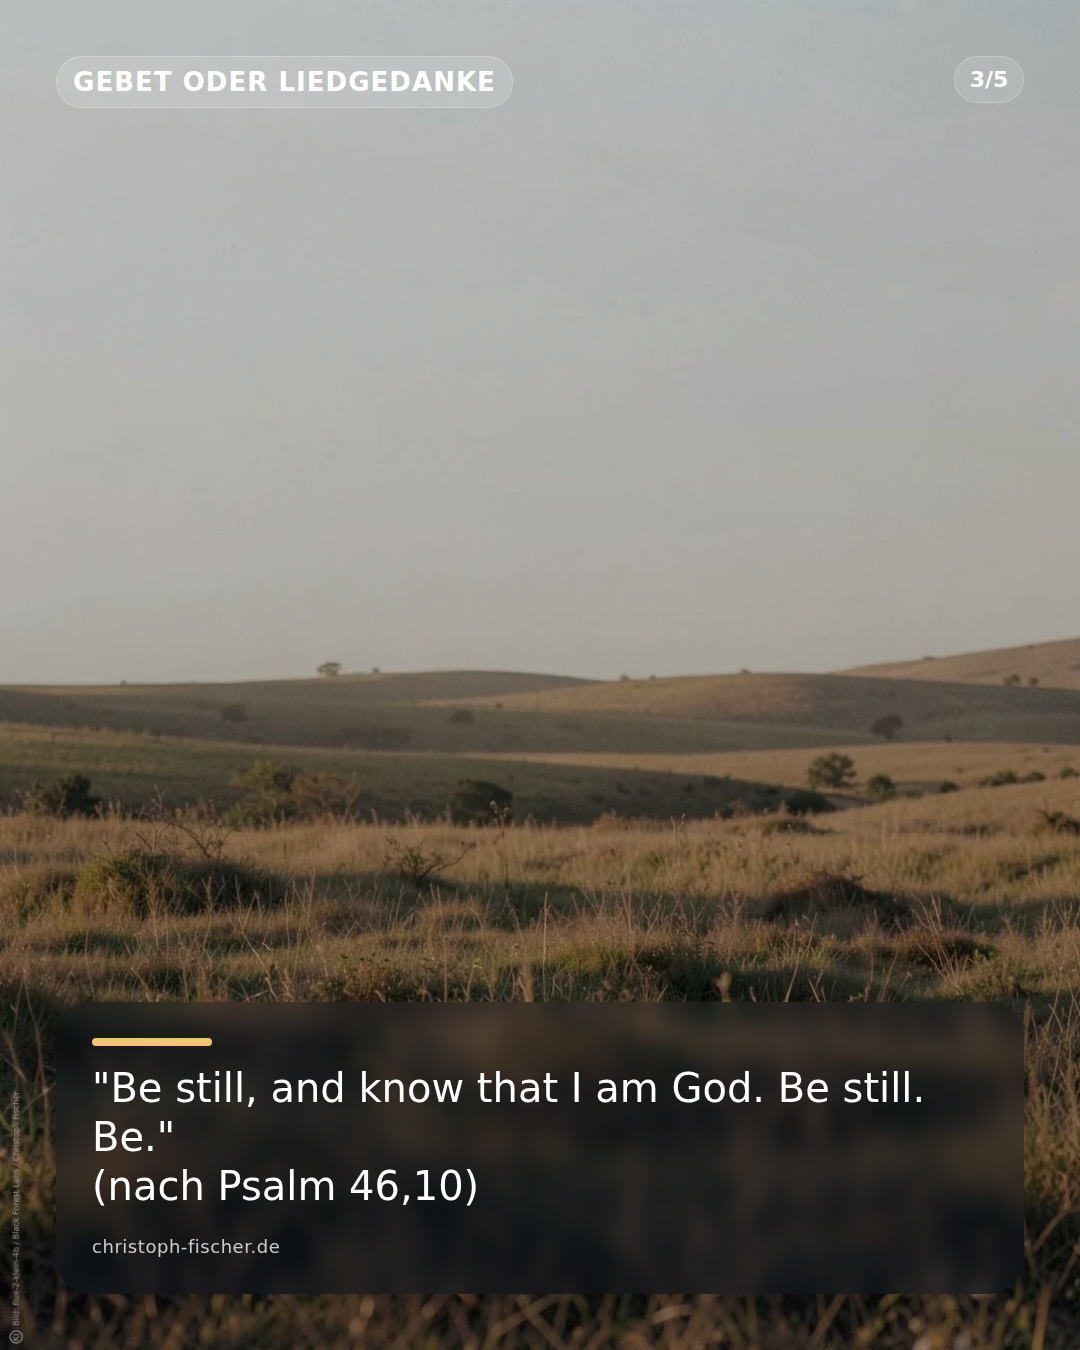
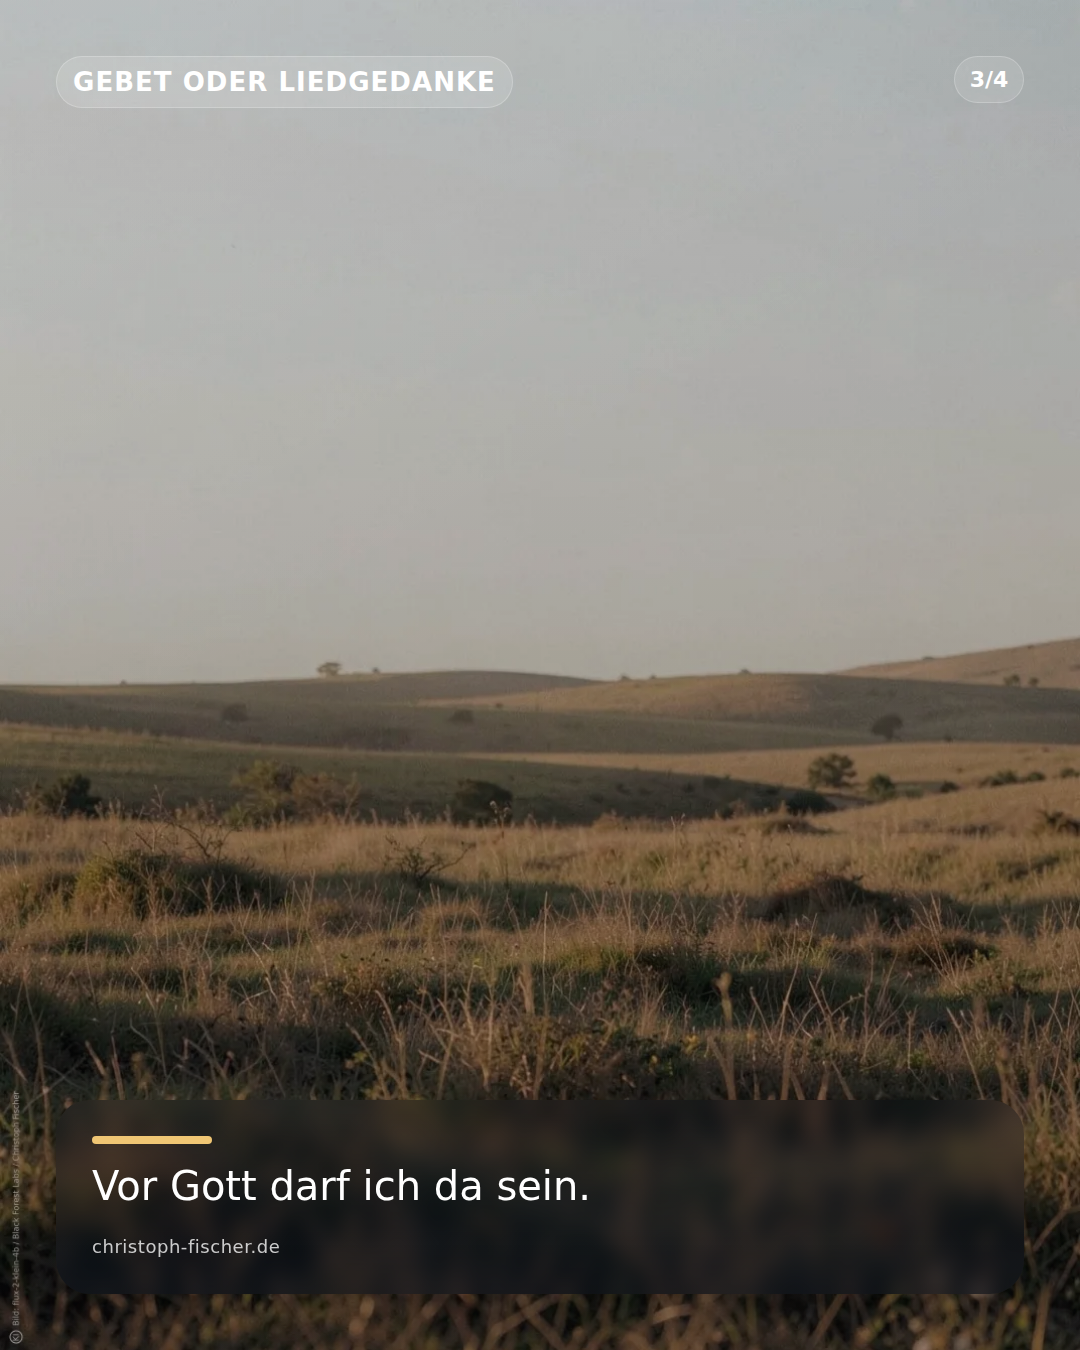
Update content: GET /files/2026-08-18/post-0009/render-instagram-feed-04.png

Changed region(s): [[0.0917, 0.7156, 0.9472, 0.9022]]

diff --git a/2026-08-18/post-0009/render-instagram-feed-03.html b/2026-08-18/post-0009/render-instagram-feed-03.html
@@ -355,13 +355,12 @@
       <section class="layout">
         <div class="panel-meta">
           <div class="eyebrow">Gebet oder Liedgedanke</div>
-          <div class="pager">3/5</div>
+          <div class="pager">3/4</div>
         </div>
         <section class="panel">
   <div class="accent-line"></div>
    
-  <p class="body-text" data-overflow-id="primary-text">&quot;Be still, and know that I am God. Be still. Be.&quot;
-(nach Psalm 46,10)</p>
+  <p class="body-text" data-overflow-id="primary-text">Vor Gott darf ich da sein.</p>
      
   <p class="sender-mark">christoph-fischer.de</p>
 </section>

diff --git a/2026-08-18/post-0009/render-instagram-feed-04.html b/2026-08-18/post-0009/render-instagram-feed-04.html
@@ -355,12 +355,12 @@
       <section class="layout">
         <div class="panel-meta">
           <div class="eyebrow">Gebet oder Liedgedanke</div>
-          <div class="pager">4/5</div>
+          <div class="pager">4/4</div>
         </div>
         <section class="panel">
   <div class="accent-line"></div>
    
-  <p class="body-text" data-overflow-id="primary-text">Vor Gott darf ich da sein.</p>
+  <p class="body-text" data-overflow-id="primary-text">Mystic Hymnal findest du unter anderem auf Spotify.</p>
      
   <p class="sender-mark">christoph-fischer.de</p>
 </section>
